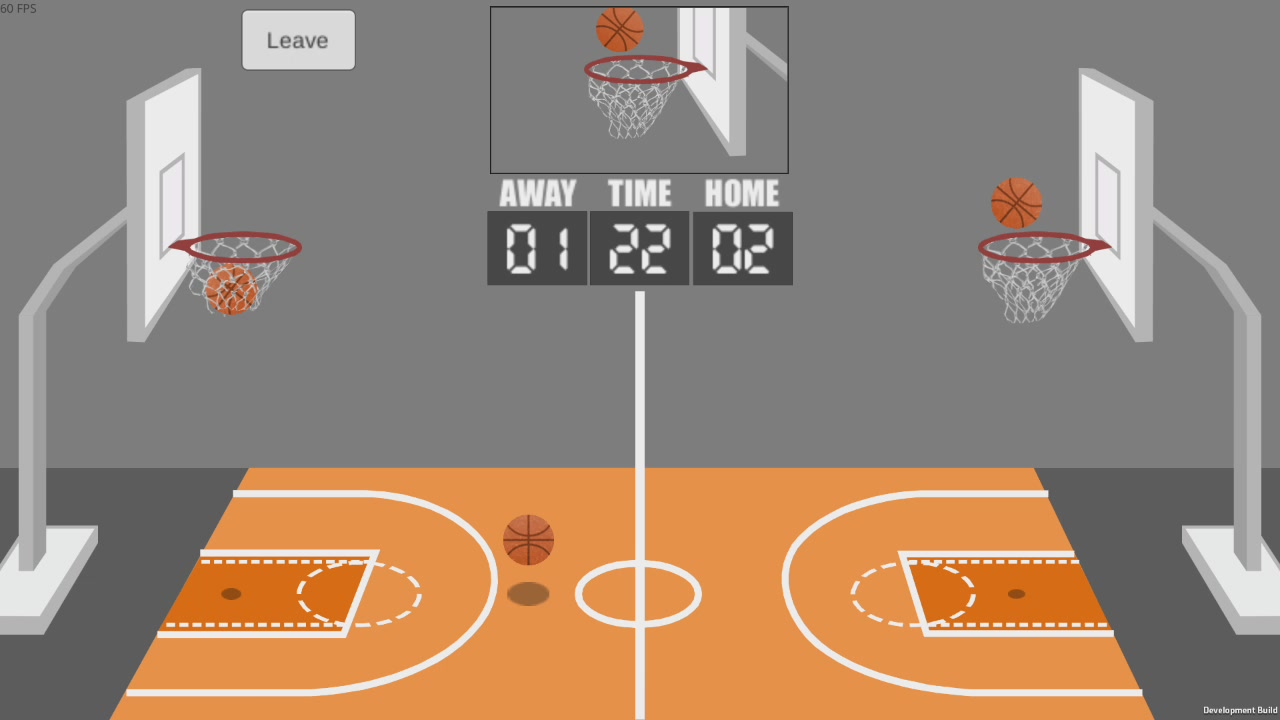
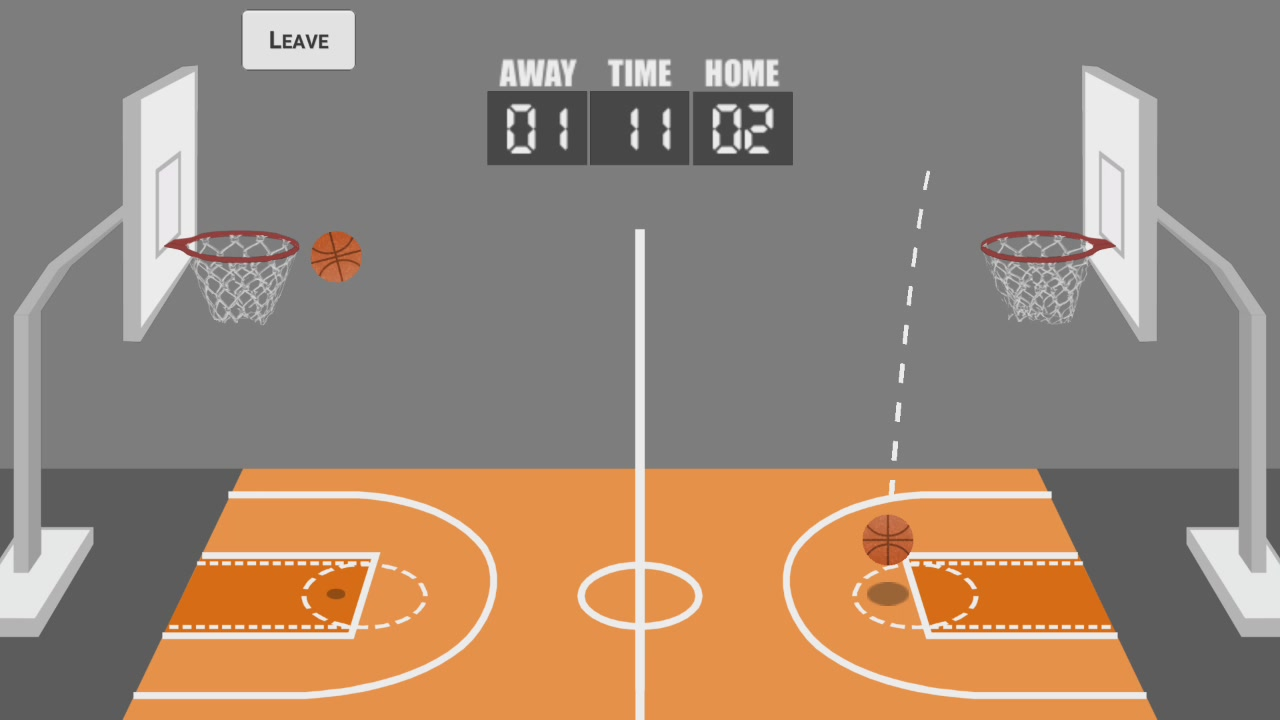
Updated Hoops Battle to show new UI

diff --git a/_posts/2017-11-15-hoops-battle.md b/_posts/2017-11-15-hoops-battle.md
@@ -14,10 +14,7 @@ thumbnail: http://andrewbruno.ca/images/games/hoopsbattle/logo.png
 media:
   - name:
     type: image
-    url: /images/games/hoopsbattle/hoopsbattle-2p-gameplay.gif
-  - name:
-    type: image
-    url: /images/games/hoopsbattle/hoopsbattle-menu-gameplay.gif
+    url: /images/games/hoopsbattle/hoopsbattle_gameplay.gif
   - name: 
     type: image
     url: /images/games/hoopsbattle/hoopsbattle1.jpg
@@ -31,26 +28,24 @@ thirdparty:
     url: https://github.com/playgameservices/play-games-plugin-for-unity
 ---
 
-
-Compete against your friends in the ultimate basketball hoop duel! This game is incomplete.
+Hoops Battle is an online or local 1v1 three pointer game. Challenge your friends or play against the world in the ultimate basketball hoop duel!
 
 ## Development ##
 
-This game began as a project to give me experience developing a networked multiplayer game. It integrates with the [Google Play Games plugin for Unity](https://github.com/playgameservices/play-games-plugin-for-unity), which facilitates matchmaking and peer-to-peer communication.
+This game began as a project to give me experience developing a networked multiplayer game. It integrates with the [Google Play Games plugin for Unity](https://github.com/playgameservices/play-games-plugin-for-unity), which facilitates matchmaking and peer-to-peer communication through the Google Play Games service.
 
-Despite originating as a multiplayer learning experience, the game has evolved to include the following features:
+The game has evolved to include the following features:
 - Quick online matchmaking
 - Challenge a friend online
 - Two player local play
-- Compete against AI of varying difficulties
 
 ### Basketball ###
 
-Before beginning work on the multiplayer component, I needed to actually implement a basketball throw and bounce mechanic that felt right. I started by integrating with Unity's mobile input system to create the basketball shoot mechanic. To generate the trajectory line, I used the Line Renderer component with a custom shader to create the moving dotted line effect. To ensure the basketball bounce felt realistic, I used various [basketball reference videos](https://www.youtube.com/watch?v=ZvgJ7mVxeg0) to ensure I had set the friction and bounce factor of the basketball just right.
+Before beginning work on the multiplayer component, I needed to actually implement a basketball throw and bounce mechanic that felt right. I started by integrating with Unity's mobile input system to create the basketball shoot mechanic. To generate the trajectory line, I used the Line Renderer component with a custom shader to create the moving dotted line effect.
 
 ### Design ###
 
-As the target platform is mobile, I wanted to ensure that a duel was short enough to allow players to stop when they need to, but also be long enough to feel satisfying. Deciding that the optimal game length was relatively short, I wanted to keep player retention high by automatically putting the player into a new duel right after finishing a previous one. I was able to implement this for all game modes.
+As the target platform is mobile, I wanted to ensure that a duel was short enough to allow players to stop when they need to, but also be long enough to feel satisfying. Deciding that the optimal game length should be relatively short, I also needed some mechanism to ensure that players stayed playing the game. To accomplish this, I made sure that when a match was finished, the game would automatically queue the player for their next match.
 
 ### Nothing but Net ###
 
